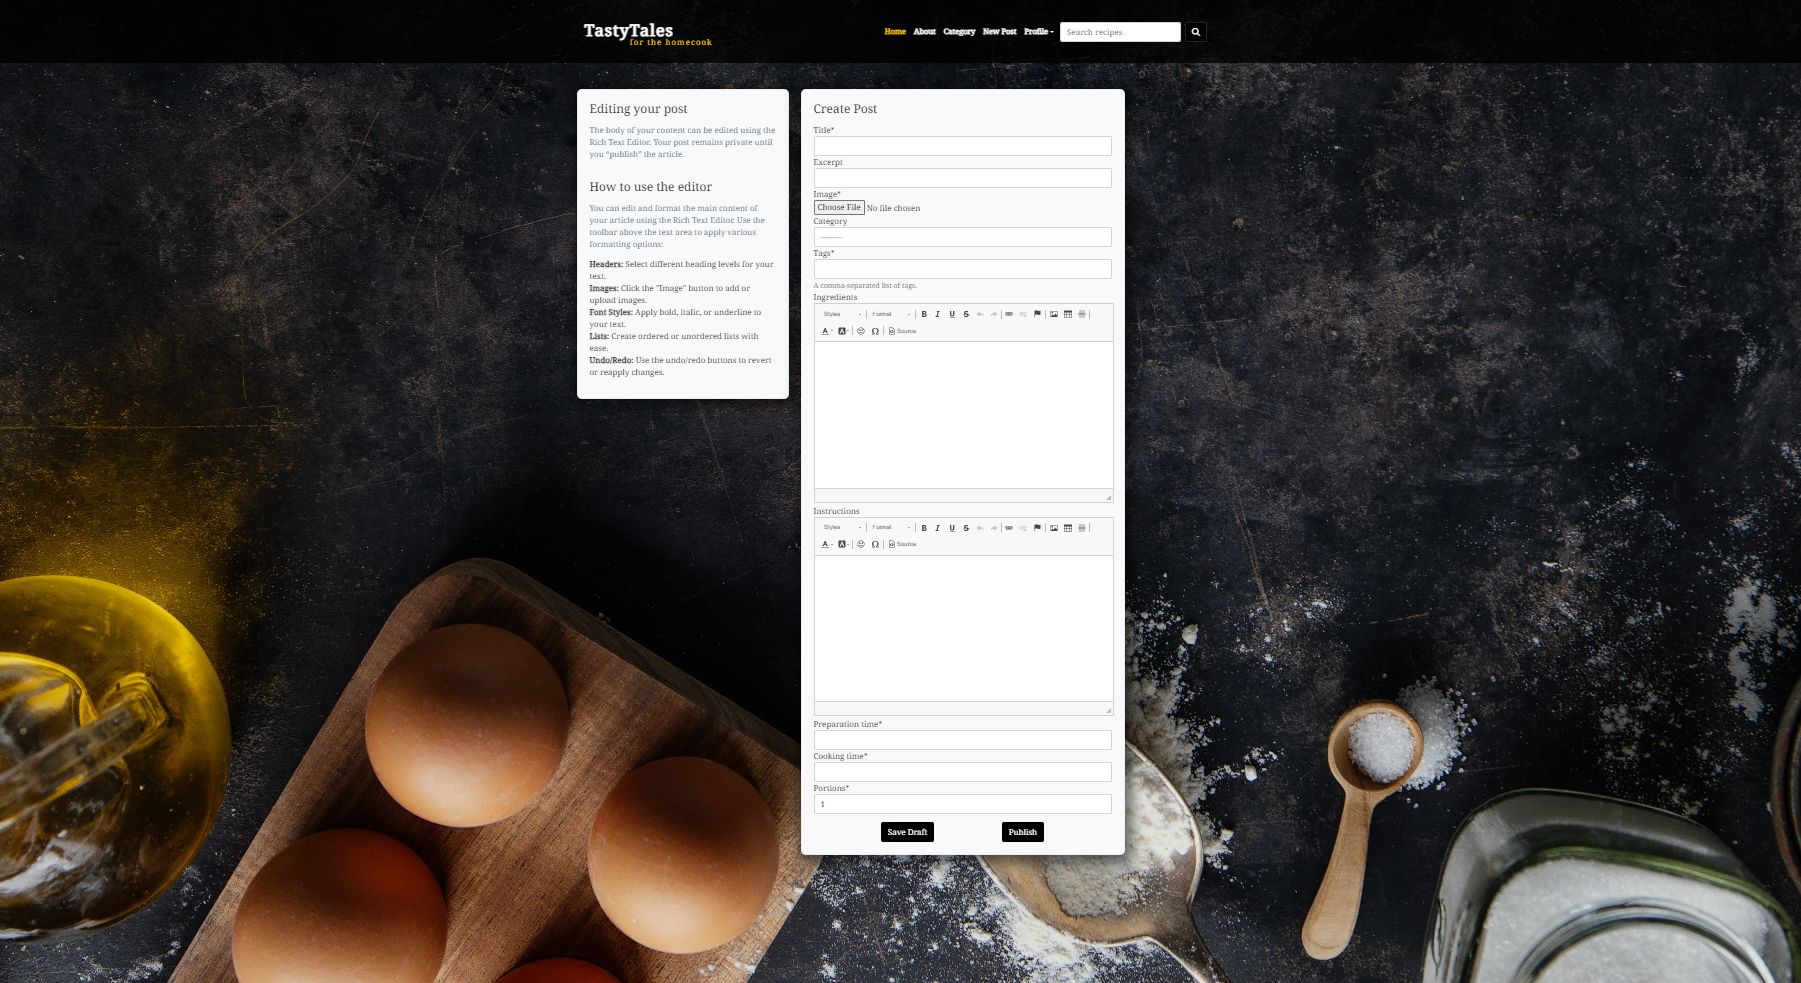
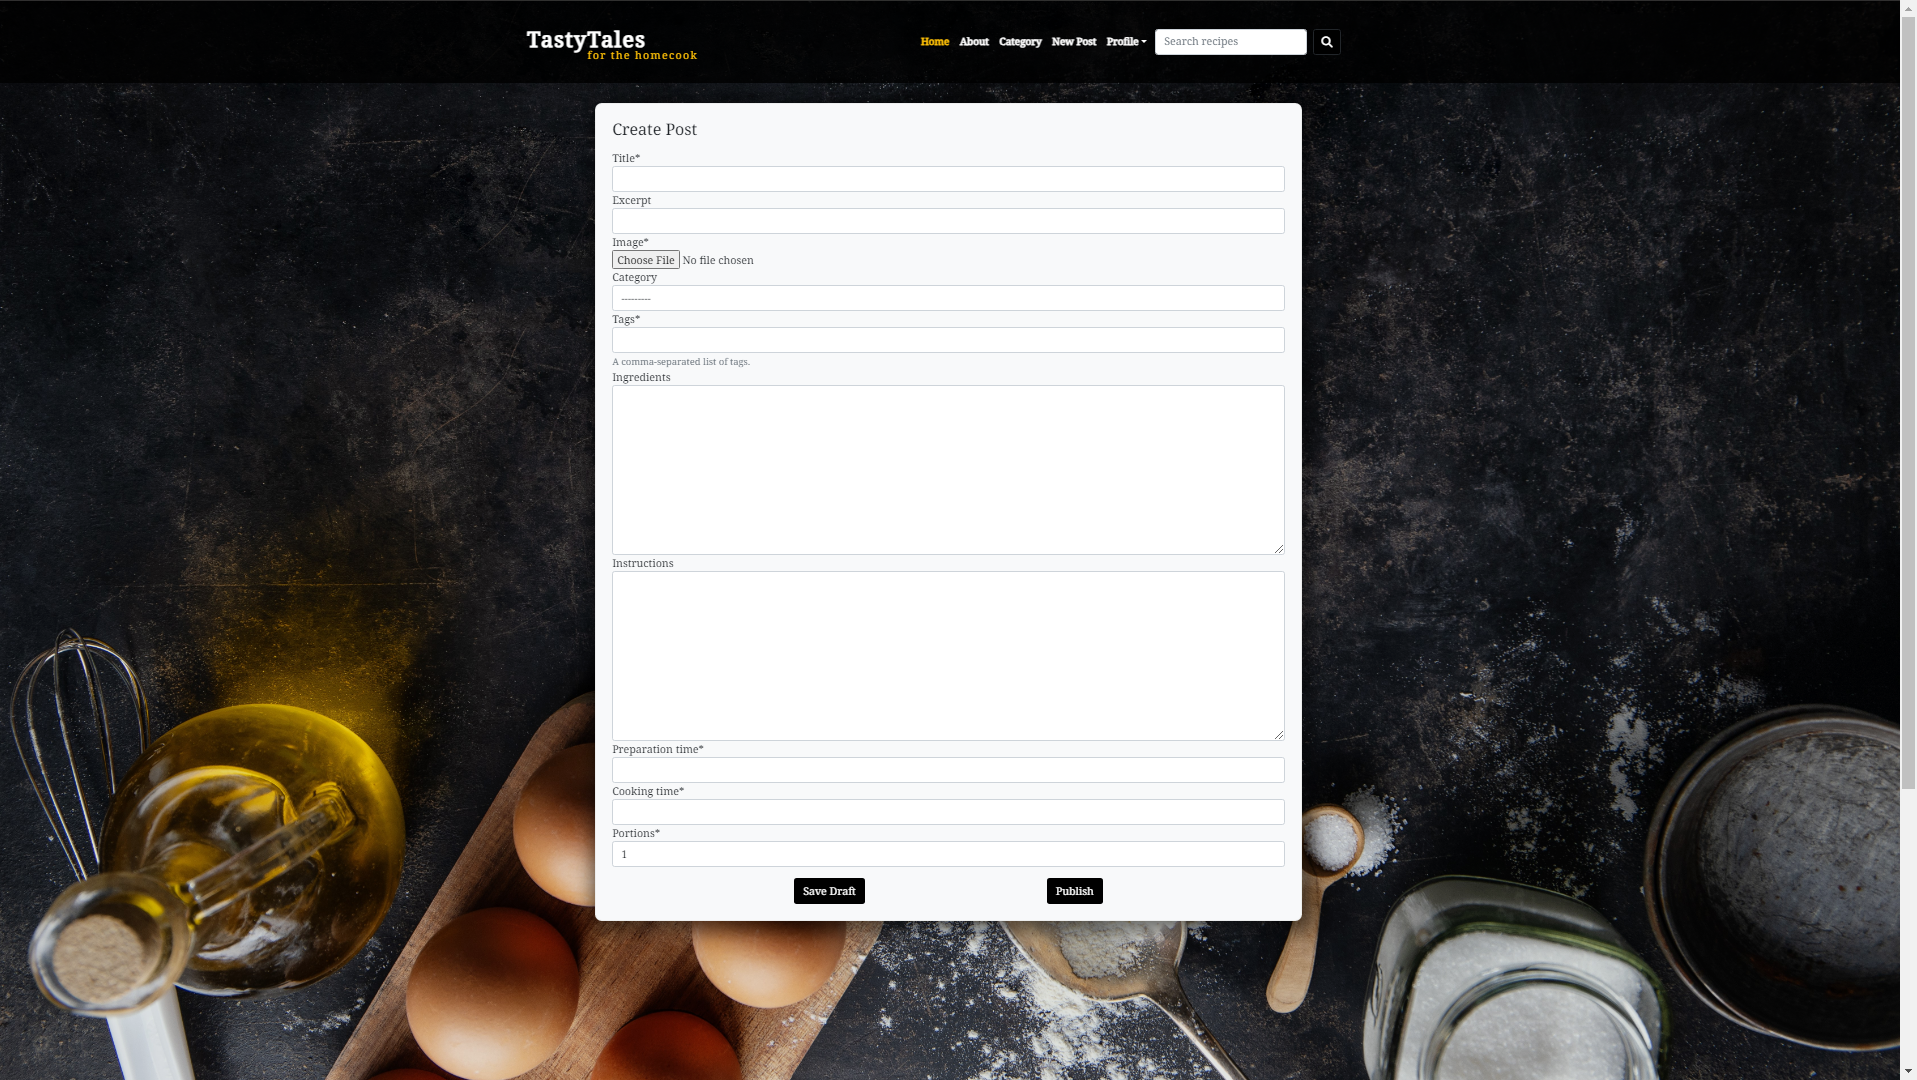
Fixthe add/edit form style, style post content in the post detail template, update README file

diff --git a/templates/post_detail.html b/templates/post_detail.html
@@ -66,10 +66,10 @@
                 <div class="content-container"> 
                     <div class="card-text">
                         <div class="d-flex">
-                            <div>{{ post.ingredients | safe }}</div>
+                            <div class="fs-5">{{ post.ingredients |linebreaksbr }}</div>
                         </div>
-                        <div class="d-flex">
-                            <div>{{ post.instructions | safe }}</div>
+                        <div class="d-flex mt-3">
+                            <div class="fs-5">{{ post.instructions |linebreaksbr }}</div>
                         </div>
                     </div>
                 </div>
@@ -80,9 +80,9 @@
                         <form class="d-inline" action="{% url 'post_like' post.slug %}" method="POST">
                             {% csrf_token %}
                             {% if liked %}
-                            <button type="submit" name="blogpost_id" value="{{post.slug}}" class="btn-like"><i class="fas fa-heart"></i></button>
+                            <button type="submit" name="blogpost_id" value="{{post.slug}}" class="btn-like mt-3"><i class="fas fa-heart"></i></button>
                             {% else %}
-                            <button type="submit" name="blogpost_id" value="{{post.slug}}" class="btn-like"><i class="far fa-heart"></i></button>
+                            <button type="submit" name="blogpost_id" value="{{post.slug}}" class="btn-like mt-3"><i class="far fa-heart"></i></button>
                             {% endif %}
                         </form>
                         <!-- If user is not authenticated they can only view the like -->
@@ -166,7 +166,7 @@
                 <p>Posting as <strong>{{ user.username }}</strong> </p>
                 <form id="commentForm" method="post" action="{% url 'post_detail' slug=post.slug %}" class="comment-text-field m-2">
                     {{ comment_form | crispy }}
-                    {{ comment_form.body.errors }} <!-- Renders form errors, keep this line if needed -->
+                    {{ comment_form.body.errors }}
                     {% csrf_token %}
                     <button id="submitButton" type="submit" class="btn btn-comment btn-send mt-2">Send</button>
                 </form>

diff --git a/templates/edit_draft.html b/templates/edit_draft.html
@@ -1,6 +1,5 @@
-<!-- edit_draft.html -->
 {% extends 'base.html' %}
-{% load crispy_forms_tags %}
+
 {% block title %}Edit Draft{% endblock %}
 {% block content %}
 <div class="bg-img-container" style="background-image: url('https://res.cloudinary.com/dx3tbsinf/image/upload/v1703849853/static/images/bg-img.e63dabd560ec.jpg')">
@@ -11,8 +10,7 @@
                     <h2>Draft</h2>
                     <form method="post" action="{% url 'publish_draft' slug=draft.slug %}" enctype="multipart/form-data">
                         {% csrf_token %}
-                        {{ form.media }}
-                        {{ form | crispy }}
+                        {{ form.as_p }}
                         <div class="d-flex justify-content-evenly mt-3">
                           <a href="{% url 'delete_draft' slug=draft.slug %}" class="btn btn-sm btn-delete btn-outline-danger">Delete</a>  
                           <button type="submit" name="save_draft" value="1" class="btn btn-sm btn-draft">Save Draft</button>

diff --git a/templates/edit_post.html b/templates/edit_post.html
@@ -1,11 +1,9 @@
 {% extends "base.html" %}
 {% block title %}Edit Post{% endblock %}
 {% block content %}
-{% load crispy_forms_tags %}
 
 <div class="container mt-5 pt-5">
     <div class="row mt-5">
-        <!-- Column: Post Form -->
         {% if posted %}
         <div class="col-lg-4 mb-4 alert alert-success" role="alert">
             Your Post is awaiting approval
@@ -16,8 +14,7 @@
                 <h2 class="h4 font-weight-bold mb-3">Edit your Post</h2>
                 <form method="post" action="{% url 'add_post' %}">
                     {% csrf_token %}
-                    {{ form.media }}
-                    {{ form | crispy }}
+                    {{ form.as_p }}
                     <div class="d-flex justify-content-end">
                         <button type="submit" class="btn btn-outline-success right mt-3">Update Recipe</button>
                     </div>

diff --git a/templates/add_post.html b/templates/add_post.html
@@ -1,7 +1,6 @@
 {% extends "base.html" %}
 {% block title %}Add Post{% endblock %}
 {% block content %}
-{% load crispy_forms_tags %}
 
 <!-- User must be logged in -->
 {% if user.is_authenticated %}
@@ -13,8 +12,7 @@
                     <h2 class="h4 font-weight-bold mb-3">Create Post</h2>
                     <form method="post" action="{% url 'add_post' %}" enctype="multipart/form-data">
                         {% csrf_token %}
-                        {{ form.p }}
-                        {{ form | crispy }}
+                        {{ form.as_p }}
                         <div class="d-flex justify-content-evenly mt-3">
                             <button type="submit" name="save_post" value="1" class="btn btn-sign">Save Draft</button>
                             <button type="submit" name="publish_post" class="btn btn-sign">Publish</button>

diff --git a/blog/forms.py b/blog/forms.py
@@ -65,6 +65,10 @@ class NewPost(forms.ModelForm):
                 choices=choices, attrs={'class': 'form-control'}
             ),
             'tags': TagWidget(attrs={'class': 'form-control'}),
+            'ingredients': forms.Textarea(attrs={'class': 'form-control', 'rows': 10}), 
+            'instructions': forms.Textarea(attrs={'class': 'form-control', 'rows': 10}),
+            'preparation_time': forms.TextInput(attrs={'class': 'form-control'}),
+            'cooking_time': forms.TextInput(attrs={'class': 'form-control'}),
             'portions': forms.NumberInput(attrs={'class': 'form-control'}),
         }
 

diff --git a/tastytales/settings.py b/tastytales/settings.py
@@ -59,8 +59,6 @@ INSTALLED_APPS = [
 
 SITE_ID = 1
 
-CKEDITOR_BASEPATH = "/my_static/ckeditor/ckeditor/"
-
 MESSAGE_TAGS = {
         messages.DEBUG: 'alert-info',
         messages.INFO: 'alert-info',

diff --git a/README.md b/README.md
@@ -264,19 +264,12 @@ The vibrant orange adds a pop of energy, stimulating creativity and appetite. It
 
     ## 7. Post Creation Page
 
-    This template is designed for editing and creating blog posts. It includes features to guide users through the editing process.
+    This template is designed for creating blog posts.
 
     - Utilizes Crispy Forms to render the form with enhanced styling.
     - The content within the block is displayed only if the user is authenticated (logged in).
     - Includes a background image container for an aesthetically pleasing interface.
-    - Provides instructions and information about editing the post and explains that the post remains private until published.
-    - Detailed instructions on using the Rich Text Editor (Desktop View), including:
-      - Headers: Selecting different heading levels.
-      - Images: Adding or uploading images.
-      - Font Styles: Applying bold, italic, or underline.
-      - Lists: Creating ordered or unordered lists.
-      - Undo/Redo: Reverting or reapplying changes.
-    - Offers a form for creating or editing a post.
+    - Offers a form for creating a post.
     - Includes a title, body, and an option to upload a featured image.
     - "Save Draft" button: Allows saving the post as a draft.
     - "Publish" button: Publishes the post.
@@ -659,12 +652,26 @@ A separate document for testing can be viewed here: [TESTING.md](docs/TESTING.md
 ### 8. Static Images Not Loading in Deployment
 - When deploying the project, the hero image and background image was not loading in the website, it was loagin from the css style sheet. This won't work in the deployed version, as it was telling heroku to look in the local filesystem, instead of going out to cloudinary for the image.To address this, I use  the Cloudinary URL directly within an inline style attribute in the template file. This adjustment ensures that the images are properly retrieved from Cloudinary, resolving the problem encountered during deployment.
 
+### 9. 
+
 ## Media Query - Responsive Web Design
 - Working across all screen sizes.
 
 ## Unfixed bugs
-- Unique Title Constraint: Editing a post in draft mode cannot be saved due to the unique title constraint. Removing the constraint alters slug-related issues.
-- ck Editor Form Image Upload Responsiveness: Uploading images in the form without setting a radio button for image selection results in unresponsiveness across the screen, particularly on small devices.
+- **Unique Title Constraint:** 
+  - Editing a post in draft mode cannot be saved due to the unique title constraint. Removing the constraint alters slug-related issues.
+- **Refused to execute script from 'https://res.cloudinary.com/dx3tbsinf/raw/upload/v1/static/' because its MIME type ('image/gif') is not executable:** 
+  - In the process of inspecting recipes posts, the console  throws an error indicating a refusal to execute a script from Cloudinary due to a MIME type mismatch ('image/gif'). I have reached out tutor support to resolve this matter, to check if the images are coming up correctly on Cloudinary, which they did and it's loading on the page. The error only happens when Debug is set to False. The tutor mentioned that can't see any issues with cloudinary on my project itself, so it must be from cloudinary's side. Another tutor intervened in an attempt to address this matterand claimed that the error occurs because it seems to be looking for some kind of JS which isn't set up to receive images. Unfortunately, we were unable to successfully troubleshoot and resolve this persistent bug and the tutor mentioned that it's an odd issue and the suggestions offered were the extent of available assistance. As they're working, as a worst case scenario, I can document about the error, if I can't get it fixed. 
+  - <details><summary><b> Console Error Image</b></summary>
+
+    ![Console Error Image](docs/img/error.png)  
+    </details><br />
+
+  - <details><summary><b> Cloudinary Upload Media Image</b></summary>
+
+    ![Cloudinary Upload Image](docs/img/cloudinary-media.png)  
+    </details><br />
+
 
 [Back to top](<#table-of-contents>)
 
